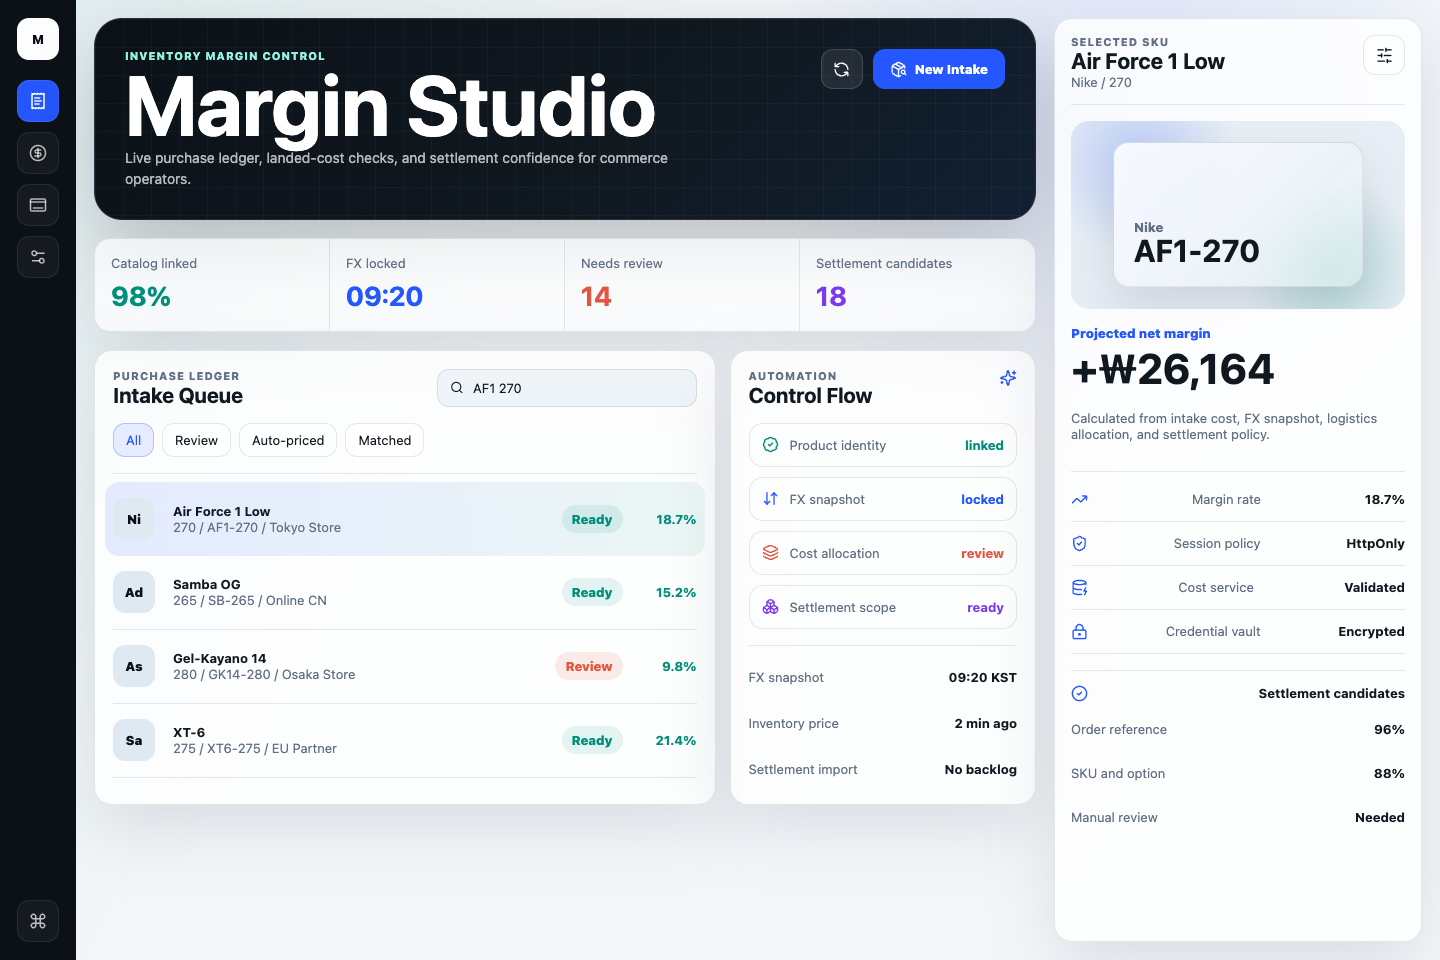
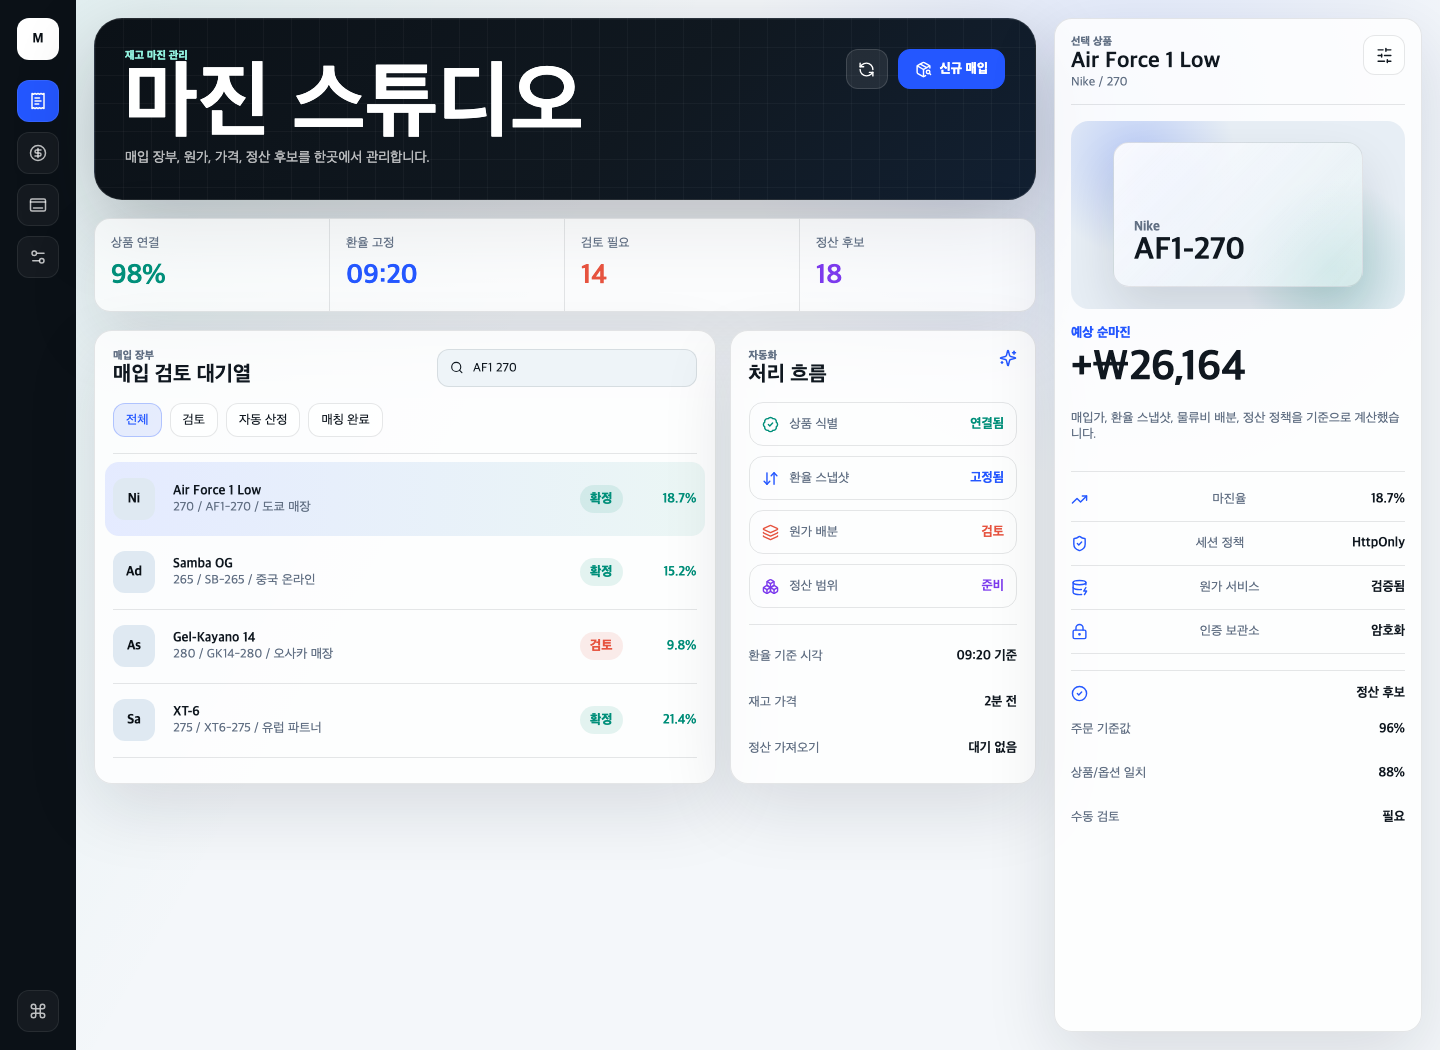
Localize UI copy and refresh screenshots

diff --git a/apps/web/src/app/page.tsx b/apps/web/src/app/page.tsx
@@ -27,20 +27,20 @@ import {
 } from "@commerce-ops/shared";
 
 const nav = [
-  { label: "Ledger", icon: ReceiptText, active: true },
-  { label: "Pricing", icon: CircleDollarSign, active: false },
-  { label: "Match", icon: Dock, active: false },
-  { label: "Settings", icon: Settings2, active: false },
+  { label: "매입 장부", icon: ReceiptText, active: true },
+  { label: "가격 점검", icon: CircleDollarSign, active: false },
+  { label: "정산 매칭", icon: Dock, active: false },
+  { label: "설정", icon: Settings2, active: false },
 ];
 
 const workflow = [
-  { label: "Catalog linked", value: "98%", tone: "green" },
-  { label: "FX locked", value: "09:20", tone: "blue" },
-  { label: "Needs review", value: "14", tone: "coral" },
-  { label: "Settlement candidates", value: "18", tone: "violet" },
+  { label: "상품 연결", value: "98%", tone: "green" },
+  { label: "환율 고정", value: "09:20", tone: "blue" },
+  { label: "검토 필요", value: "14", tone: "coral" },
+  { label: "정산 후보", value: "18", tone: "violet" },
 ] as const;
 
-const filters = ["All", "Review", "Auto-priced", "Matched"];
+const filters = ["전체", "검토", "자동 산정", "매칭 완료"];
 
 export default function HomePage() {
   const selected = samplePurchases[0];
@@ -48,7 +48,7 @@ export default function HomePage() {
 
   return (
     <main className="studio-shell">
-      <aside className="rail" aria-label="Primary navigation">
+      <aside className="rail" aria-label="주요 메뉴">
         <div className="rail-logo">M</div>
         <nav className="rail-nav">
           {nav.map((item) => (
@@ -61,33 +61,30 @@ export default function HomePage() {
             </button>
           ))}
         </nav>
-        <button className="rail-button" aria-label="Command menu">
+        <button className="rail-button" aria-label="명령 메뉴">
           <Command size={18} />
         </button>
       </aside>
 
-      <section className="studio-main" aria-label="Margin Studio workspace">
+      <section className="studio-main" aria-label="마진 스튜디오 작업 화면">
         <header className="studio-header">
           <div className="title-stack">
-            <p>Inventory margin control</p>
-            <h1>Margin Studio</h1>
-            <span>
-              Live purchase ledger, landed-cost checks, and settlement
-              confidence for commerce operators.
-            </span>
+            <p>재고 마진 관리</p>
+            <h1>마진 스튜디오</h1>
+            <span>매입 장부, 원가, 가격, 정산 후보를 한곳에서 관리합니다.</span>
           </div>
           <div className="header-actions">
-            <button className="ghost-action" aria-label="Refresh data">
+            <button className="ghost-action" aria-label="데이터 새로고침">
               <RefreshCcw size={17} />
             </button>
             <button className="primary-action">
               <PackageSearch size={17} />
-              New Intake
+              신규 매입
             </button>
           </div>
         </header>
 
-        <section className="signal-row" aria-label="Operational signals">
+        <section className="signal-row" aria-label="운영 상태 지표">
           {workflow.map((item) => (
             <div className={`signal ${item.tone}`} key={item.label}>
               <span>{item.label}</span>
@@ -100,19 +97,19 @@ export default function HomePage() {
           <div className="ledger-pane">
             <div className="pane-head">
               <div>
-                <p className="label">Purchase ledger</p>
-                <h2>Intake Queue</h2>
+                <p className="label">매입 장부</p>
+                <h2>매입 검토 대기열</h2>
               </div>
               <div className="search-control">
                 <Search size={15} />
-                <input aria-label="Search ledger" defaultValue="AF1 270" />
+                <input aria-label="매입 장부 검색" defaultValue="AF1 270" />
               </div>
             </div>
 
             <div className="filter-strip">
               {filters.map((filter) => (
                 <button
-                  className={filter === "All" ? "filter active" : "filter"}
+                  className={filter === "전체" ? "filter active" : "filter"}
                   key={filter}
                 >
                   {filter}
@@ -145,7 +142,7 @@ export default function HomePage() {
                         : "status warn"
                     }
                   >
-                    {purchase.status === "ready" ? "Ready" : "Review"}
+                    {purchase.status === "ready" ? "확정" : "검토"}
                   </span>
                   <strong className="margin-value">
                     {purchase.marginRate.toFixed(1)}%
@@ -158,34 +155,34 @@ export default function HomePage() {
           <div className="automation-pane">
             <div className="pane-head">
               <div>
-                <p className="label">Automation</p>
-                <h2>Control Flow</h2>
+                <p className="label">자동화</p>
+                <h2>처리 흐름</h2>
               </div>
               <Sparkles size={18} />
             </div>
             <div className="runway">
               <RunwayStep
                 icon={BadgeCheck}
-                label="Product identity"
-                value="linked"
+                label="상품 식별"
+                value="연결됨"
                 tone="green"
               />
               <RunwayStep
                 icon={ArrowDownUp}
-                label="FX snapshot"
-                value="locked"
+                label="환율 스냅샷"
+                value="고정됨"
                 tone="blue"
               />
               <RunwayStep
                 icon={Layers3}
-                label="Cost allocation"
-                value="review"
+                label="원가 배분"
+                value="검토"
                 tone="coral"
               />
               <RunwayStep
                 icon={Boxes}
-                label="Settlement scope"
-                value="ready"
+                label="정산 범위"
+                value="준비"
                 tone="violet"
               />
             </div>
@@ -201,16 +198,16 @@ export default function HomePage() {
         </section>
       </section>
 
-      <aside className="review-panel" aria-label="Selected purchase review">
+      <aside className="review-panel" aria-label="선택 매입 검토">
         <div className="review-head">
           <div>
-            <p className="label">Selected SKU</p>
+            <p className="label">선택 상품</p>
             <h2>{selected.productName}</h2>
             <span>
               {selected.brand} / {selected.option}
             </span>
           </div>
-          <button className="ghost-action" aria-label="Open review controls">
+          <button className="ghost-action" aria-label="검토 옵션 열기">
             <SlidersHorizontal size={17} />
           </button>
         </div>
@@ -223,41 +220,28 @@ export default function HomePage() {
         </div>
 
         <section className="margin-card">
-          <span>Projected net margin</span>
+          <span>예상 순마진</span>
           <strong>{economics.profitLabel}</strong>
           <p>
-            Calculated from intake cost, FX snapshot, logistics allocation, and
-            settlement policy.
+            매입가, 환율 스냅샷, 물류비 배분, 정산 정책을 기준으로 계산했습니다.
           </p>
         </section>
 
         <div className="review-lines">
           <ReviewLine
             icon={TrendingUp}
-            label="Margin rate"
+            label="마진율"
             value={`${selected.marginRate.toFixed(1)}%`}
           />
-          <ReviewLine
-            icon={ShieldCheck}
-            label="Session policy"
-            value="HttpOnly"
-          />
-          <ReviewLine
-            icon={DatabaseZap}
-            label="Cost service"
-            value="Validated"
-          />
-          <ReviewLine
-            icon={LockKeyhole}
-            label="Credential vault"
-            value="Encrypted"
-          />
+          <ReviewLine icon={ShieldCheck} label="세션 정책" value="HttpOnly" />
+          <ReviewLine icon={DatabaseZap} label="원가 서비스" value="검증됨" />
+          <ReviewLine icon={LockKeyhole} label="인증 보관소" value="암호화" />
         </div>
 
         <section className="match-card">
           <div className="match-head">
             <CheckCircle2 size={17} />
-            <strong>Settlement candidates</strong>
+            <strong>정산 후보</strong>
           </div>
           {sampleSettlements.map((settlement) => (
             <div className="match-line" key={settlement.id}>

diff --git a/packages/shared/src/index.ts b/packages/shared/src/index.ts
@@ -31,7 +31,7 @@ export const samplePurchases: SamplePurchase[] = [
     productName: "Air Force 1 Low",
     option: "270",
     styleCode: "AF1-270",
-    storeName: "Tokyo Store",
+    storeName: "도쿄 매장",
     status: "ready",
     marginRate: 18.7,
     publicInputs: {
@@ -48,7 +48,7 @@ export const samplePurchases: SamplePurchase[] = [
     productName: "Samba OG",
     option: "265",
     styleCode: "SB-265",
-    storeName: "Online CN",
+    storeName: "중국 온라인",
     status: "ready",
     marginRate: 15.2,
     publicInputs: {
@@ -65,7 +65,7 @@ export const samplePurchases: SamplePurchase[] = [
     productName: "Gel-Kayano 14",
     option: "280",
     styleCode: "GK14-280",
-    storeName: "Osaka Store",
+    storeName: "오사카 매장",
     status: "review",
     marginRate: 9.8,
     publicInputs: {
@@ -82,7 +82,7 @@ export const samplePurchases: SamplePurchase[] = [
     productName: "XT-6",
     option: "275",
     styleCode: "XT6-275",
-    storeName: "EU Partner",
+    storeName: "유럽 파트너",
     status: "ready",
     marginRate: 21.4,
     publicInputs: {
@@ -96,15 +96,15 @@ export const samplePurchases: SamplePurchase[] = [
 ];
 
 export const sampleSyncStatus = [
-  { label: "FX snapshot", value: "09:20 KST" },
-  { label: "Inventory price", value: "2 min ago" },
-  { label: "Settlement import", value: "No backlog" },
+  { label: "환율 기준 시각", value: "09:20 기준" },
+  { label: "재고 가격", value: "2분 전" },
+  { label: "정산 가져오기", value: "대기 없음" },
 ] as const;
 
 export const sampleSettlements = [
-  { id: "match_001", label: "Order reference", confidence: "96%" },
-  { id: "match_002", label: "SKU and option", confidence: "88%" },
-  { id: "match_003", label: "Manual review", confidence: "Needed" },
+  { id: "match_001", label: "주문 기준값", confidence: "96%" },
+  { id: "match_002", label: "상품/옵션 일치", confidence: "88%" },
+  { id: "match_003", label: "수동 검토", confidence: "필요" },
 ] as const;
 
 export function calculateSampleUnitEconomics(input: PurchasePublicInput) {

diff --git a/apps/web/src/app/layout.tsx b/apps/web/src/app/layout.tsx
@@ -1,12 +1,15 @@
-import type { Metadata } from 'next';
-import './globals.css';
+import type { Metadata } from "next";
+import "./globals.css";
 
 export const metadata: Metadata = {
-  title: 'Commerce Ops Automation',
-  description: 'Commerce operations automation console built with Next.js and NestJS.'
+  title: "마진 스튜디오",
+  description:
+    "커머스 매입, 원가, 가격, 정산 검토를 위한 운영 자동화 콘솔입니다.",
 };
 
-export default function RootLayout({ children }: Readonly<{ children: React.ReactNode }>) {
+export default function RootLayout({
+  children,
+}: Readonly<{ children: React.ReactNode }>) {
   return (
     <html lang="ko">
       <body>{children}</body>

diff --git a/apps/web/src/app/globals.css b/apps/web/src/app/globals.css
@@ -34,6 +34,9 @@ body {
   background: var(--paper);
   color: var(--text);
   font-family:
+    "Pretendard",
+    "Apple SD Gothic Neo",
+    "Noto Sans KR",
     Inter,
     ui-sans-serif,
     system-ui,
@@ -150,7 +153,7 @@ nextjs-portal {
   color: var(--muted);
   font-size: 11px;
   font-weight: 800;
-  letter-spacing: 0.09em;
+  letter-spacing: 0;
   text-transform: uppercase;
 }
 

diff --git a/README.md b/README.md
@@ -1,6 +1,6 @@
 # Commerce Ops Automation | 커머스 운영 자동화
 
-`Margin Studio`는 매입 등록, 원가 검토, 가격 점검, 정산 후보 매칭을 한 화면에서 처리하기 위한 커머스 운영 콘솔입니다.  
+`마진 스튜디오`는 매입 등록, 원가 검토, 가격 점검, 정산 후보 매칭을 한 화면에서 처리하기 위한 커머스 운영 콘솔입니다.<br />
 `Margin Studio` is a commerce operations console for purchase intake, landed-cost review, pricing checks, and settlement matching.
 
 고객 데이터, 핵심 산식, 외부 파트너 연동 세부사항은 제외하고, 운영 자동화 시스템의 구조와 구현 역량을 검증할 수 있도록 재구성한 공개 포트폴리오 레포입니다.  
@@ -51,9 +51,9 @@ Repetitive commerce operations are separated into product surfaces, API boundari
 ![Mobile console](docs/screenshots/mobile-console.png)
 
 - **제품명 중심 첫인상 / Product-led first impression**  
-  `Margin Studio`를 실제 제품처럼 보이게 구성하고, 운영 상태와 작업 큐가 바로 이어지도록 설계했습니다.
+  `마진 스튜디오`를 실제 제품처럼 보이게 구성하고, 운영 상태와 작업 큐가 바로 이어지도록 설계했습니다.
 - **운영자 우선 레이아웃 / Operator-first layout**  
-  데스크톱에서는 navigation, purchase ledger, automation status, review panel을 분리해 컨텍스트를 유지하며 검토할 수 있습니다.
+  데스크톱에서는 내비게이션, 매입 장부, 자동화 상태, 검토 패널을 분리해 컨텍스트를 유지하며 검토할 수 있습니다.
 - **모바일 연속성 / Mobile continuity**  
   모바일에서는 같은 흐름을 세로형 review path로 재배치해 search, filter, margin signal을 유지합니다.
 - **상태 중심 정보 구조 / Status-driven hierarchy**  
